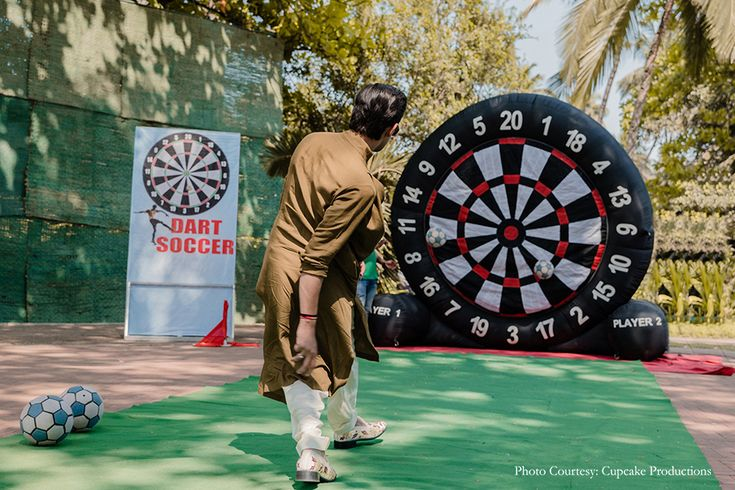
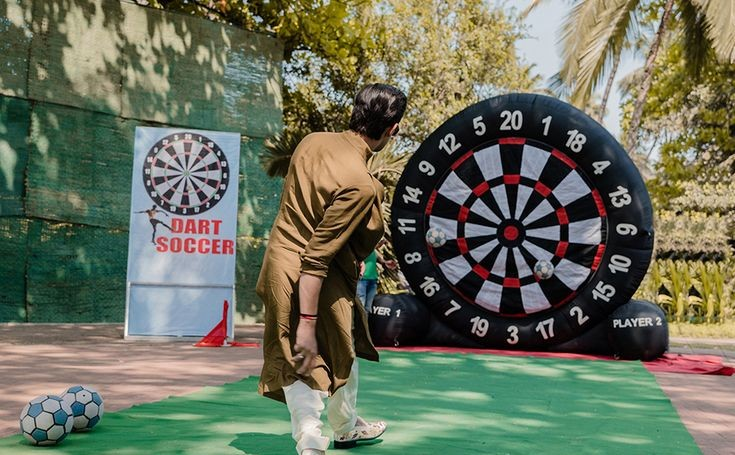
feat: update event and package details, enhance UI components, Download brochure

diff --git a/ikigaifarm/app/components/PackagesCard.tsx b/ikigaifarm/app/components/PackagesCard.tsx
@@ -1,4 +1,4 @@
-import { CheckCircle2, IndianRupeeIcon } from 'lucide-react'
+import { CheckCircle2, DownloadIcon, IndianRupeeIcon } from 'lucide-react'
 import Link from 'next/link'
 import React from 'react'
 
@@ -56,13 +56,23 @@ const PackagesCard = (props: {
       </div>
 
       {/* CTA */}
-      <div className="mt-auto border-t border-[#e5e5e5] px-6 py-10">
+      <div className="mt-auto border-t flex flex-col gap-4 border-[#e5e5e5] mb-4 px-6 pb-10">
     <Link
       href="/Contact"
       className="block rounded-full bg-[#122a02] px-6 py-3 text-center text-amber-100"
     >
       Book Now
     </Link>
+    <Link
+  href="/IkigaiFarm_PackageDetails.pdf"
+  download
+  className="
+   items-center block rounded-full bg-[#122a02] px-6 py-3 text-center text-amber-100
+  "
+>
+ <DownloadIcon className="mr-2 inline" />
+ Download Brochure
+</Link>
   </div>
     </div>
   )

diff --git a/ikigaifarm/app/components/GlimpseCard.tsx b/ikigaifarm/app/components/GlimpseCard.tsx
@@ -9,11 +9,13 @@ type ScheduleItem = {
 
 type ProgramScheduleProps = {
   title: string;
+  timeframe: string;
   schedule: ScheduleItem[];
 };
 
 const GlimpseCard = ({
   title,
+  timeframe,
   schedule,
 }: ProgramScheduleProps) => {
   return (
@@ -38,8 +40,8 @@ const GlimpseCard = ({
           {title}
         </h3>
 
-        <p className="mt-2 text-center text-xs sm:text-sm text-white/80">
-          Your celebration timeline
+        <p className="mt-2 text-center text-lg lg:text-xl text-white">
+          {timeframe}
         </p>
       </div>
 

diff --git a/ikigaifarm/app/components/LastHomeSection.tsx b/ikigaifarm/app/components/LastHomeSection.tsx
@@ -12,7 +12,7 @@ const medieval_Sharp = MedievalSharp({
 const LastHomeSection = () => {
   const activities = [
     'Archery',
-    'ATV Ride',
+    'Rain Dance',
     'Trampoline',
     'Camel Ride',
     'Zorbing',
@@ -139,8 +139,8 @@ const LastHomeSection = () => {
               {/* Small Bottom */}
               <div className="group overflow-hidden rounded-[1.5rem] shadow-xl">
                 <Image
-                  src="/ATV ride.jpeg"
-                  alt="ATV Ride"
+                  src="/Adventure4.jpg"
+                  alt="Adventure"
                   width={400}
                   height={300}
                   quality={70}

diff --git a/ikigaifarm/app/components/Reasonforbeing.tsx b/ikigaifarm/app/components/Reasonforbeing.tsx
@@ -24,15 +24,15 @@ const Reasonforbeing = () => {
 
     <div className="my-10 flex flex-wrap items-center justify-center gap-8 md:gap-16">
       <img
-        src="/TripAdvisorLogo.jpeg"
+        src="/TripAdvisorLogo.png"
         alt="Tripadvisor"
         className="h-16 lg:h-28 object-contain  transition "
       />
 
       <img
-        src="/DistrictLogoPurple.jpeg"
+        src="/DistrictLogo.svg"
         alt="District"
-        className="h-16 lg:h-28 object-contain  transition "
+        className="h-12 lg:h-28 object-contain  transition "
       />
 
       <img

diff --git a/ikigaifarm/app/Packages/page.tsx b/ikigaifarm/app/Packages/page.tsx
@@ -275,6 +275,7 @@ const Page = () => {
   const glimpseCardData = [
     {
       title: 'Adventure Day Out',
+      timeframe: '10:00 AM - 3:00 PM',
       schedule: [
         {
           time: '10:00 AM',
@@ -320,6 +321,7 @@ const Page = () => {
     },
     {
       title: 'Sunset Trails',
+      timeframe: '04:00 PM - 09:00 PM',
       schedule: [
        {
           time: '04:00 PM',
@@ -482,7 +484,7 @@ const Page = () => {
   <div className="mt-16">
     <div className="mb-12 text-center">
       <h3 className="text-3xl font-bold text-[#122a02] md:text-4xl">
-        Event Timelines
+        Package Timelines
       </h3>
 
       <p className="mt-3 text-[#6b5f3a]">
@@ -498,6 +500,7 @@ const Page = () => {
         >
           <GlimpseCard
             title={card.title}
+              timeframe={card.timeframe}
             schedule={card.schedule}
           />
         </div>

diff --git a/ikigaifarm/app/Events/signature-events/[slug]/SignatureEventsEnquiryForm.tsx b/ikigaifarm/app/Events/signature-events/[slug]/SignatureEventsEnquiryForm.tsx
@@ -240,8 +240,8 @@ const [isSubmitted, setIsSubmitted] =
 
       <div className="rounded-2xl bg-[#f8f8f8] p-6">
         <div className="flex justify-between">
-          <span>Workshop</span>
-          <span>{workshop}</span>
+          <span >Event Type</span>
+          <span className='font-bold text-right' >{workshop}</span>
         </div>
 
         <div className="mt-2 flex justify-between">

diff --git a/ikigaifarm/app/Events/upcoming-workshops/[slug]/WorkshopEnquiryForm.tsx b/ikigaifarm/app/Events/upcoming-workshops/[slug]/WorkshopEnquiryForm.tsx
@@ -241,7 +241,7 @@ const [isSubmitted, setIsSubmitted] =
       <div className="rounded-2xl bg-[#f8f8f8] p-6">
         <div className="flex justify-between">
           <span>Workshop</span>
-          <span>{workshop}</span>
+          <span className='font-bold text-right' >{workshop}</span>
         </div>
 
         <div className="mt-2 flex justify-between">

diff --git a/ikigaifarm/app/Experiences/page.tsx b/ikigaifarm/app/Experiences/page.tsx
@@ -166,7 +166,7 @@ const page = () => {
 
             <div className="mt-8 flex flex-col items-center justify-center gap-3 sm:flex-row">
               
-              <Link href='/Events'>
+              <Link href='/Packages'>
                 <button className="w-full rounded-full bg-[#f8ffad] px-6 py-3 text-sm font-semibold text-[#012d0b] transition duration-300 hover:scale-105 sm:w-auto">
                   Event Packages
                 </button>